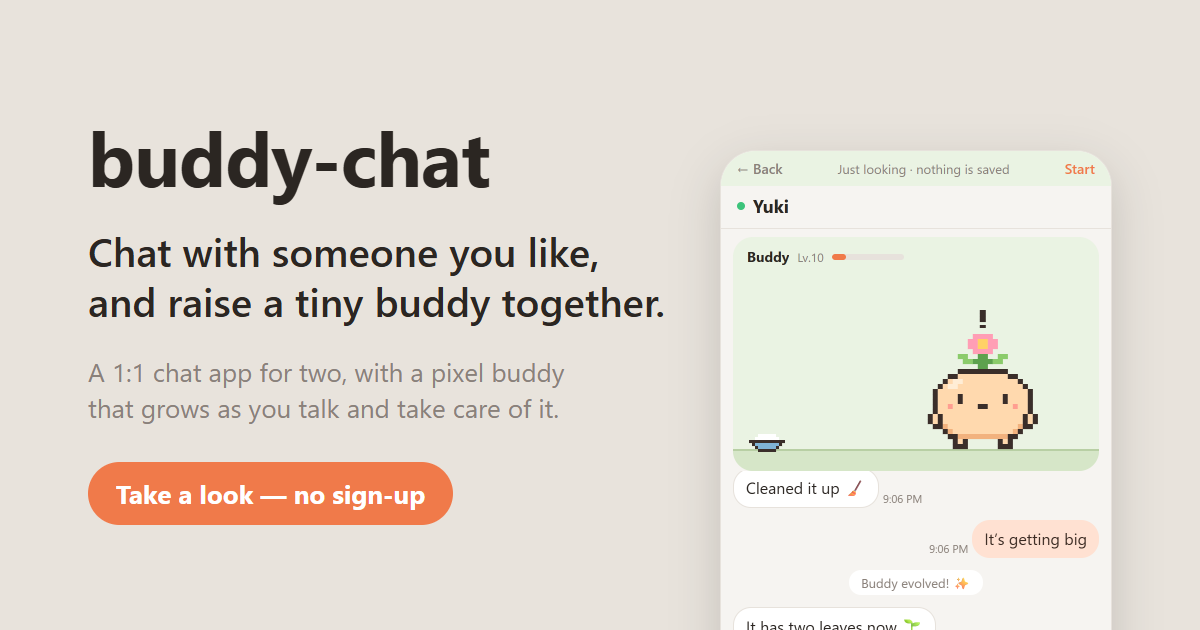
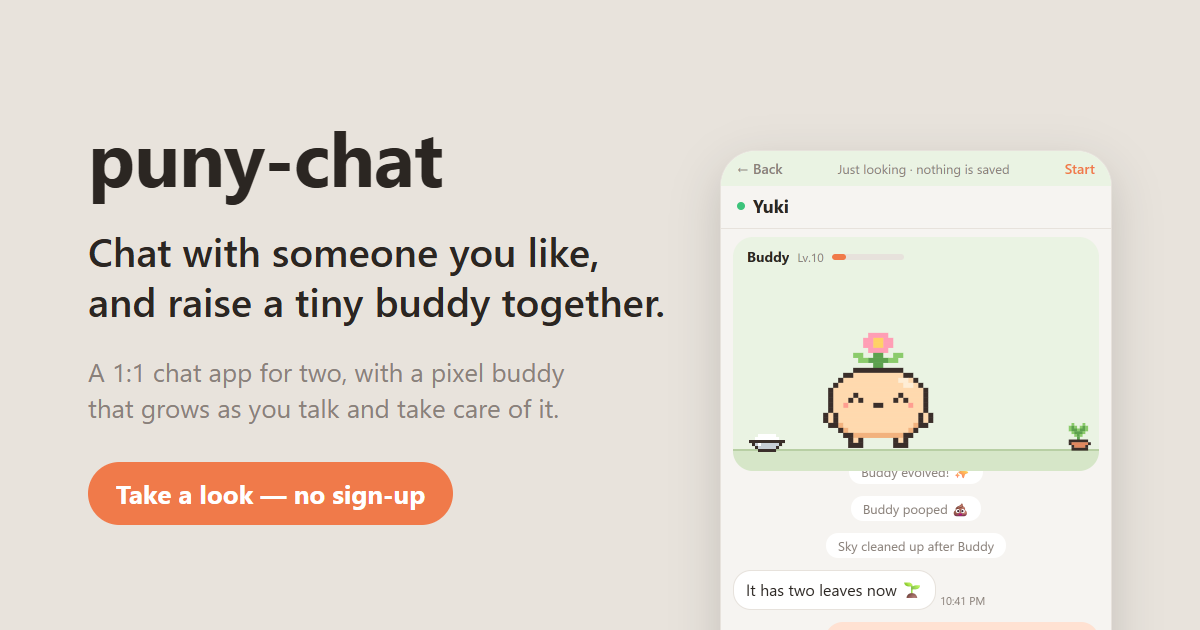
chore: 서비스 이름을 puny-chat으로, 도메인을 puny-chat.com으로
화면·탭 제목·링크 미리보기·홈 화면 이름·알림 기본 제목을 puny-chat으로 바꾸고, 웹은 puny-chat.com, 서버는
api.puny-chat.com으로 설정했다. 저장소와 코드 패키지 이름은 buddy-chat 그대로 둔다.

diff --git a/app/public/sw.js b/app/public/sw.js
@@ -7,12 +7,12 @@ self.addEventListener('activate', (event) => event.waitUntil(self.clients.claim(
 self.addEventListener('push', (event) => {
   const data = event.data ? event.data.json() : {};
   event.waitUntil(
-    self.registration.showNotification(data.title || 'buddy-chat', {
+    self.registration.showNotification(data.title || 'puny-chat', {
       body: data.body || '',
       icon: '/icon-192.png',
       badge: '/icon-192.png',
       // One notification for the chat, replaced by the newest message, with a sound each time.
-      tag: 'buddy-chat',
+      tag: 'puny-chat',
       renotify: true,
       data: { url: data.url || '/' },
     }),

diff --git a/app/src/components/page-title.tsx b/app/src/components/page-title.tsx
@@ -1,10 +1,10 @@
 import Head from 'expo-router/head';
 
-const APP_NAME = 'buddy-chat';
+const APP_NAME = 'puny-chat';
 
 // The browser tab's title (web). Each screen renders one: Head only applies inside the focused
 // screen, and with none the tab's title would be empty.
-// `count`: unread messages, shown first like other messengers do ("(2) buddy-chat").
+// `count`: unread messages, shown first like other messengers do ("(2) puny-chat").
 export function PageTitle({ title, count = 0 }: { title?: string; count?: number }) {
   const name = title ? `${title} · ${APP_NAME}` : APP_NAME;
   return (

diff --git a/app/src/app/+html.tsx b/app/src/app/+html.tsx
@@ -2,8 +2,8 @@ import { ScrollViewStyleReset } from 'expo-router/html';
 import { type PropsWithChildren } from 'react';
 
 // The public address, for link previews: crawlers need absolute URLs (infra: web_custom_domains).
-const SITE = 'https://buddy.pokepidia.com';
-const TITLE = 'buddy-chat';
+const SITE = 'https://puny-chat.com';
+const TITLE = 'puny-chat';
 const DESCRIPTION =
   'A tiny 1:1 chat app where two people raise a pixel buddy together. Take a look without signing up.';
 

diff --git a/app/src/app/sign-in.tsx b/app/src/app/sign-in.tsx
@@ -50,7 +50,7 @@ export default function SignInScreen() {
       <View style={styles.column}>
         <View style={styles.hero}>
           <BuddyAvatar stage="EGG" size={80} />
-          <Text style={[styles.title, { color: colors.text }]}>buddy-chat</Text>
+          <Text style={[styles.title, { color: colors.text }]}>puny-chat</Text>
           <Text
             lineBreakStrategyIOS="hangul-word"
             style={[styles.tagline, { color: colors.textMuted }]}

diff --git a/app/src/lib/site-url.ts b/app/src/lib/site-url.ts
@@ -1,4 +1,4 @@
 // The public web address, for links shared outside the app (invites).
 export function siteUrl(): string {
-  return 'https://buddy.pokepidia.com';
+  return 'https://puny-chat.com';
 }

diff --git a/server/src/main/java/com/buddychat/notification/NotificationService.java b/server/src/main/java/com/buddychat/notification/NotificationService.java
@@ -155,7 +155,7 @@ public class NotificationService {
 
     private static PushMessage toPush(String token, String roomId, String text, User from) {
         String body = text.length() > MAX_BODY_LENGTH ? text.substring(0, MAX_BODY_LENGTH) + "…" : text;
-        String title = from.displayName() != null ? from.displayName() : "buddy-chat";
+        String title = from.displayName() != null ? from.displayName() : "puny-chat";
         return new PushMessage(token, title, body, "default", Map.of("roomId", roomId));
     }
 

diff --git a/server/src/main/java/com/buddychat/notification/NotificationProperties.java b/server/src/main/java/com/buddychat/notification/NotificationProperties.java
@@ -22,4 +22,4 @@ record NotificationProperties(
         @DefaultValue("15m") Duration receiptDelay,
         @Nullable String vapidPublicKey,
         @Nullable String vapidPrivateKey,
-        @DefaultValue("https://buddy.pokepidia.com") String vapidSubject) {}
+        @DefaultValue("https://puny-chat.com") String vapidSubject) {}

diff --git a/infra/README.md b/infra/README.md
@@ -1,6 +1,6 @@
 # infra
 
-buddy-chat's infrastructure as Terraform: the server on Railway, MongoDB on Atlas, DNS on Cloudflare,
+puny-chat's infrastructure as Terraform: the server on Railway, MongoDB on Atlas, DNS on Cloudflare,
 state in Cloudflare R2. The web app is a Cloudflare Worker that CI deploys with wrangler
 (`app/wrangler.jsonc`). Decisions and costs: `docs/server-design.md`, 인프라.
 
@@ -10,11 +10,11 @@ state in Cloudflare R2. The web app is a Cloudflare Worker that CI deploys with 
 
 Everything below goes into `infra/.env` (copy `.env.example`; ignored by git). Nothing here is committed.
 
-1. **Cloudflare** (pokepidia.com is already there)
-   - Account id and the zone id of pokepidia.com: the zone's overview page.
+1. **Cloudflare** (puny-chat.com, bought through Cloudflare Registrar)
+   - Account id and the zone id of puny-chat.com: the zone's overview page.
    - R2: create a bucket `buddy-chat-tfstate`, then an R2 API token with Object Read & Write on it.
      Its Access Key ID and Secret go in `AWS_ACCESS_KEY_ID` / `AWS_SECRET_ACCESS_KEY`.
-   - An API token from the "Edit Cloudflare Workers" template, plus Zone · DNS · Edit for pokepidia.com.
+   - An API token from the "Edit Cloudflare Workers" template, plus Zone · DNS · Edit for puny-chat.com.
      Terraform uses it for DNS, and CI for the Worker (GitHub secret `CLOUDFLARE_API_TOKEN`).
 2. **MongoDB Atlas**: an organization, then Access Manager → Service Accounts, with the
    Organization Project Creator role. Its client id and secret; the organization id (settings).
@@ -34,7 +34,7 @@ Show the plan before applying, especially when it changes or destroys something 
 
 ## CI
 
-After the first apply, in the Railway dashboard: project buddy-chat → Settings → Tokens → a project
+After the first apply, in the Railway dashboard: project puny-chat → Settings → Tokens → a project
 token for `production`. Then, as GitHub secrets and variables:
 
 ```sh

diff --git a/CLAUDE.md b/CLAUDE.md
@@ -1,4 +1,4 @@
-# buddy-chat
+# buddy-chat (서비스 이름: puny-chat)
 
 1~2명이 작은 가상 생명체(Buddy)를 함께 키우며 쓰는 초경량 1:1 실시간 채팅 앱.
 **Chat first. Buddy makes it fun.** iOS가 기준 플랫폼이고 Web은 보조, Android는 나중.
@@ -30,7 +30,7 @@
 - `pnpm exec expo-doctor` — 의존성·설정 진단
 - Node 24+, pnpm (버전은 `app/package.json`의 `packageManager`)
 - 처음 한 번: `app/.env.example`을 `app/.env.local`로 복사하고 Firebase 웹 앱 설정값을 채운다(공개 설정값, git 제외).
-- 서버 주소는 `EXPO_PUBLIC_API_URL`(`.env.local`, 예: https://buddy-api.pokepidia.com). 비우면 Metro를 띄운 PC의 :8080 로컬 서버
+- 서버 주소는 `EXPO_PUBLIC_API_URL`(`.env.local`, 예: https://api.puny-chat.com). 비우면 Metro를 띄운 PC의 :8080 로컬 서버
   (`./gradlew bootRun`)로 정해진다(`app/src/lib/api-url.ts`). 아이폰에서 로컬 서버를 쓰려면 Windows 방화벽에서 8080을 허용한다.
 
 ## App structure

diff --git a/README.md b/README.md
@@ -1,12 +1,12 @@
 <div align="center">
 
-# 🥚 buddy-chat
+# 🥚 puny-chat
 
 **좋아하는 사람과 대화하며, 작은 Buddy를 함께 키워요.**
 
 *Chat with someone you like, and raise a tiny buddy together.*
 
-**[👀 로그인 없이 구경하기](https://buddy.pokepidia.com/demo)** · [웹에서 시작하기](https://buddy.pokepidia.com) · [제품 문서](docs/product.md) · [서버 설계](docs/server-design.md)
+**[👀 로그인 없이 구경하기](https://puny-chat.com/demo)** · [웹에서 시작하기](https://puny-chat.com) · [제품 문서](docs/product.md) · [서버 설계](docs/server-design.md)
 
 <br>
 
@@ -20,7 +20,7 @@
 
 ## 이런 앱이에요
 
-buddy-chat은 **딱 두 사람을 위한 메신저**예요. 그리고 두 사람 사이에는 작은 생명체 하나가 살고 있어요.
+puny-chat은 **딱 두 사람을 위한 메신저**예요. 그리고 두 사람 사이에는 작은 생명체 하나가 살고 있어요.
 
 ```text
 18:02   버디가 💩을 쌌어요
